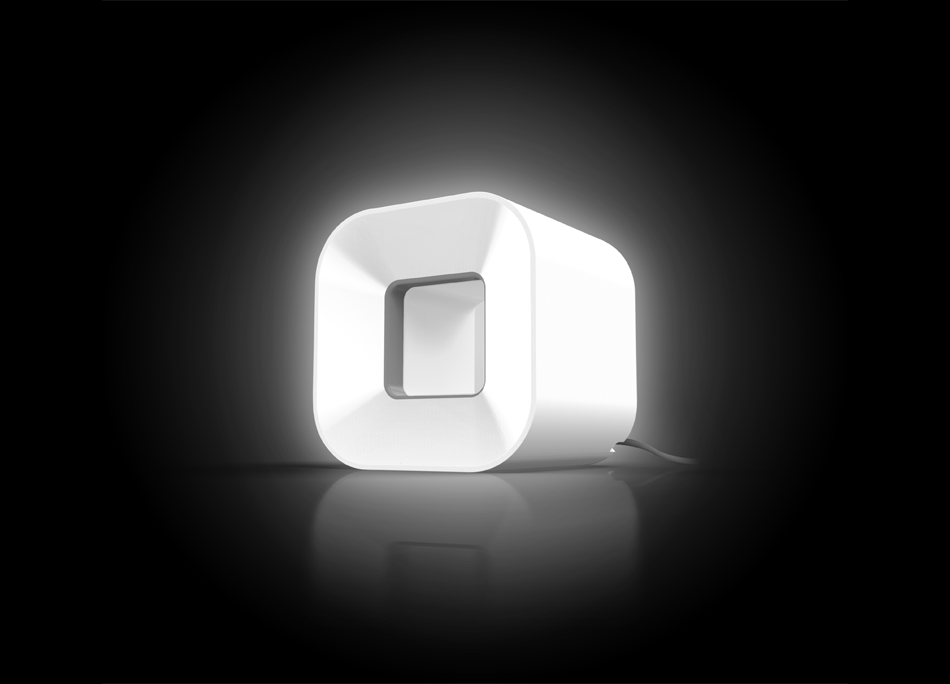
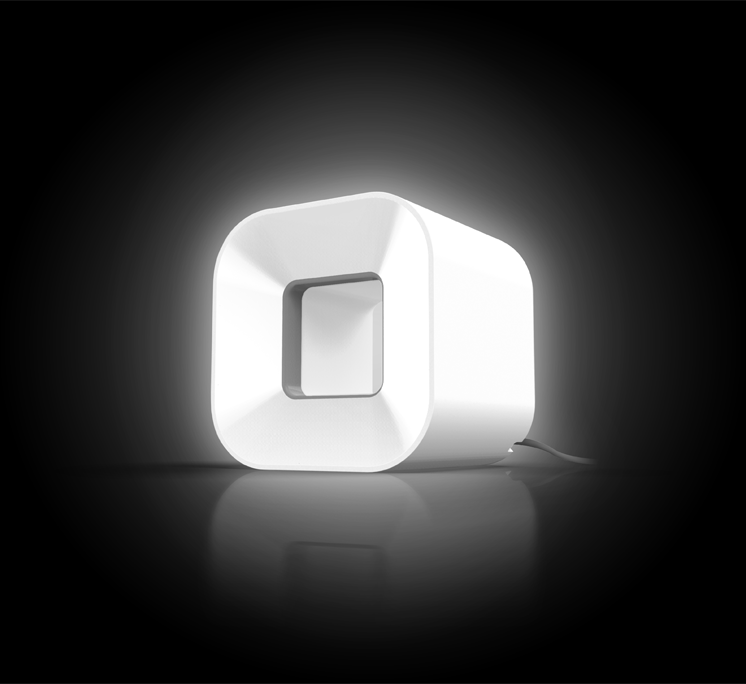
Product Colors

diff --git a/stylesheets/app.css b/stylesheets/app.css
@@ -4256,34 +4256,58 @@ body {
 /* Product */
 /* line 70, ../sass/app.scss */
 .product {
-  background: lime;
+  background: #000000;
   width: 100%;
-  -webkit-animation: cloudrgb 15s infinite;
+  position: relative;
 }
 /* line 74, ../sass/app.scss */
 .product img {
-  width: 100%;
+  margin: 0 auto;
+  background: red;
+  display: block;
+  -webkit-animation: cloudrgb 20s infinite 3s alternate;
+}
+/* line 80, ../sass/app.scss */
+.product a {
+  background: url(../images/down.png) no-repeat 0 0;
+  width: 51px;
+  height: 51px;
+  position: absolute;
+  left: 50%;
+  bottom: 20%;
+}
+
+/* line 90, ../sass/app.scss */
+.down {
+  position: absolute;
+  left: 50%;
+  bottom: 1em;
 }
 
 @-webkit-keyframes cloudrgb {
-  /* line 80, ../sass/app.scss */
+  /* line 97, ../sass/app.scss */
   0% {
-    background: lime;
-  }
-
-  /* line 83, ../sass/app.scss */
-  33.333333% {
     background: red;
   }
 
-  /* line 86, ../sass/app.scss */
+  /* line 100, ../sass/app.scss */
+  33.333333% {
+    background: lime;
+  }
+
+  /* line 103, ../sass/app.scss */
   66.666666% {
     background: blue;
+  }
+
+  /* line 106, ../sass/app.scss */
+  100% {
+    background: red;
   }
 }
 
 /* Rows & Columns  */
-/* line 93, ../sass/app.scss */
+/* line 113, ../sass/app.scss */
 .row {
   margin-bottom: 12px;
   padding-top: 15px;
@@ -4292,33 +4316,33 @@ body {
   border-radius: 10px;
 }
 
-/* line 101, ../sass/app.scss */
+/* line 121, ../sass/app.scss */
 .row.logo {
   margin-bottom: 0;
   padding: 0;
   border-radius: 0;
 }
 
-/* line 107, ../sass/app.scss */
+/* line 127, ../sass/app.scss */
 .row.intro {
   padding-top: 0;
   border-radius: 0 0 10px 10px;
 }
 
 /* Nav */
-/* line 118, ../sass/app.scss */
+/* line 138, ../sass/app.scss */
 .nav {
   background: #4a4a4a;
   height: 50px;
   border-radius: 0;
 }
 
-/* line 124, ../sass/app.scss */
+/* line 144, ../sass/app.scss */
 .nav .row {
   background: none;
 }
 
-/* line 128, ../sass/app.scss */
+/* line 148, ../sass/app.scss */
 .nav ul li {
   font-family: Arvo, sans-serif;
   font-size: 1.5rem;
@@ -4326,17 +4350,17 @@ body {
   list-style: none;
   float: left;
 }
-/* line 134, ../sass/app.scss */
+/* line 154, ../sass/app.scss */
 .nav ul li a {
   padding: 0 12px;
   color: #0d0d0d;
 }
-/* line 137, ../sass/app.scss */
+/* line 157, ../sass/app.scss */
 .nav ul li a:hover {
   text-decoration: none;
 }
 
-/* line 143, ../sass/app.scss */
+/* line 163, ../sass/app.scss */
 .nav ul li.up {
   background: url(../images/up.png) no-repeat left top;
   width: 35px;

diff --git a/javascripts/foundation/app.js b/javascripts/foundation/app.js
@@ -1,22 +1,45 @@
 (function ($) {  
 
-  $(function(){
-    $(document).foundationAlerts();
-    $(document).foundationButtons();
-    $(document).foundationAccordion();
-    $(document).foundationNavigation();
-    $(document).foundationCustomForms();
-    $(document).foundationMediaQueryViewer();
-    $(document).foundationTabs({callback:$.foundation.customForms.appendCustomMarkup});
+	$(function(){
+	
+		$(document).foundationAlerts();
+		$(document).foundationButtons();
+		$(document).foundationAccordion();
+		$(document).foundationNavigation();
+		$(document).foundationCustomForms();
+		$(document).foundationMediaQueryViewer();
+		$(document).foundationTabs({callback:$.foundation.customForms.appendCustomMarkup});
+		
+		$(document).tooltips();
+		$('input, textarea').placeholder();
+		
+		// IE8 Support for .block-grids
+		// $('.block-grid.two-up>li:nth-child(2n+1)').css({clear: 'both'});
+		// $('.block-grid.three-up>li:nth-child(3n+1)').css({clear: 'both'});
+		// $('.block-grid.four-up>li:nth-child(4n+1)').css({clear: 'both'});
+		// $('.block-grid.five-up>li:nth-child(5n+1)').css({clear: 'both'});
+		
+		initLayoutFix();
     
-    $(document).tooltips();
-    $('input, textarea').placeholder();
-    
-    // UNCOMMENT THE LINE YOU WANT BELOW IF YOU WANT IE8 SUPPORT AND ARE USING .block-grids
-    // $('.block-grid.two-up>li:nth-child(2n+1)').css({clear: 'both'});
-    // $('.block-grid.three-up>li:nth-child(3n+1)').css({clear: 'both'});
-    // $('.block-grid.four-up>li:nth-child(4n+1)').css({clear: 'both'});
-    // $('.block-grid.five-up>li:nth-child(5n+1)').css({clear: 'both'});
-  });
+	});
+  
+	// page init
+/* 	$(function(){ */
+/* 		initLayoutFix(); */
+/* 		initLightbox(); */
+/* 		initSlideAnchors(); */
+/* 		initCarousel(); */
+/* 	}); */
+	
+	
+	function initLayoutFix() {
+		var win = $(window);
+		var product = $('.product');
+		function fixHeight() {
+			product.css({
+				height: Math.max(win.height(), 400) - parseInt(product.css('paddingBottom')) - parseInt(product.css('paddingTop'))});
+		}
+		win.bind('load resize', fixHeight);
+	}
   
 })(jQuery);

diff --git a/sass/app.scss b/sass/app.scss
@@ -68,23 +68,43 @@ body {
 /* Product */
 
 .product {
-	background: $g;
+	background: #000000;
 	width: 100%;
-	-webkit-animation: cloudrgb 15s infinite;
+	position: relative;
 	img {
-		width: 100%;
+		margin: 0 auto;
+		background: $r;
+		display: block;
+		-webkit-animation: cloudrgb 20s infinite 3s alternate;
 	}
+	a {
+		background: url(../images/down.png) no-repeat 0 0;
+		width: 51px;
+		height: 51px;
+		position: absolute;
+		left: 50%;
+		bottom: 20%;
+	}
+}
+
+.down {
+	position: absolute;
+	left: 50%;
+	bottom: 1em;
 }
 
 @-webkit-keyframes cloudrgb {
 	0% {
-		background: $g;
+		background: $r;
 	}
 	33.333333% {
-		background: $r;
+		background: $g;
 	}
 	66.666666% {
 		background: $b;
+	}
+	100% {
+		background: $r;
 	}
 }
 

diff --git a/index.html b/index.html
@@ -24,6 +24,7 @@
 	
 	<div class="product">
 		<img src="images/product.png" alt="lightcloud product, glowing in red green and blue"/>
+<!-- 		<a href="#"></a> -->
 	</div>
 	
 	<div class="nav">
